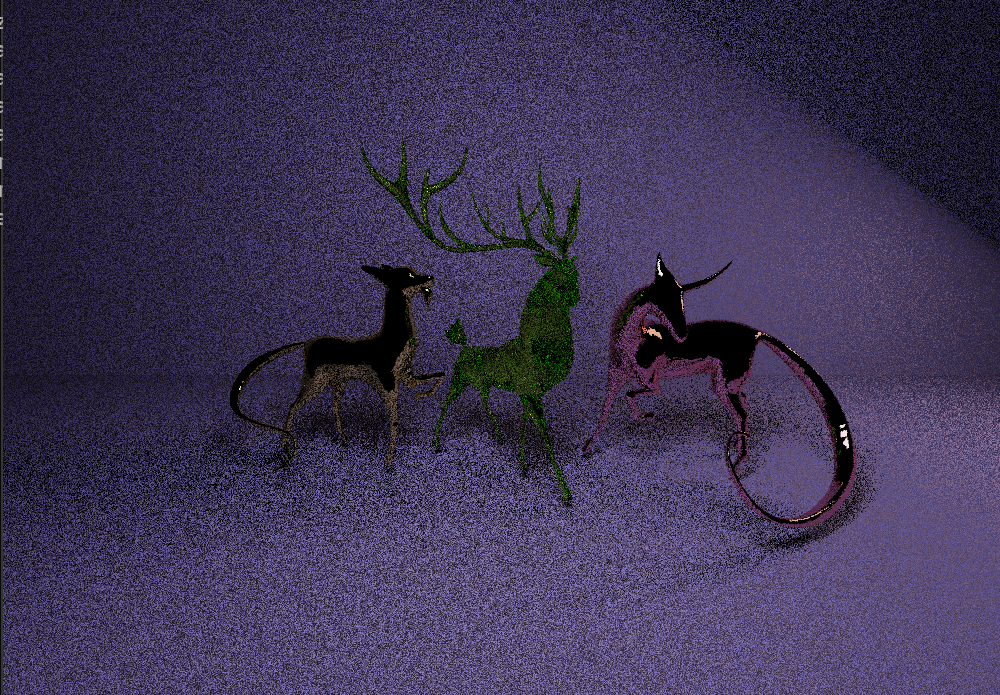
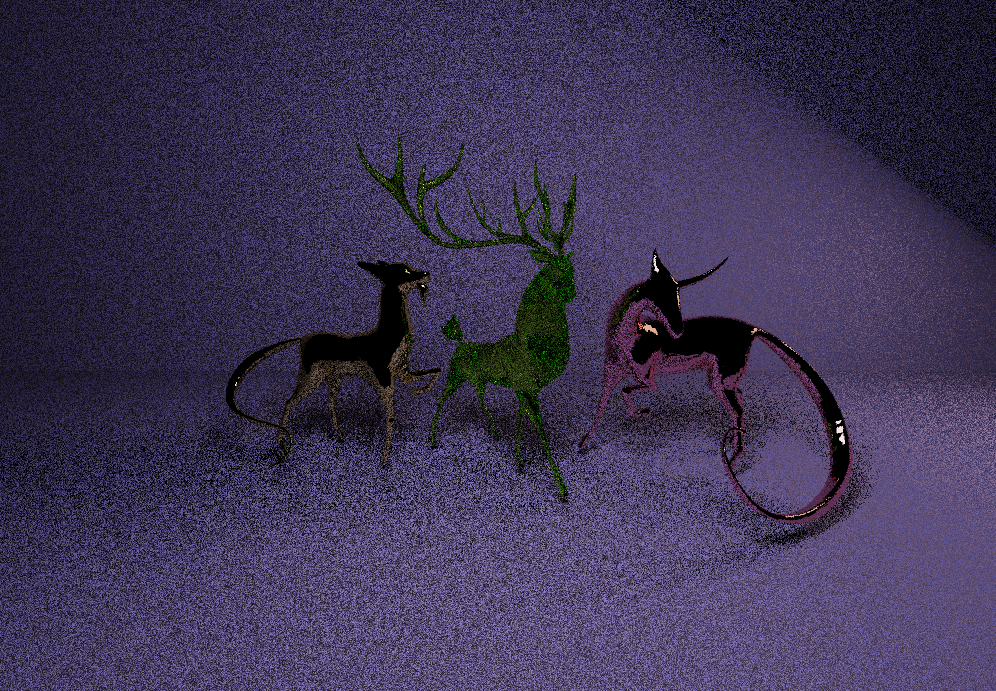
update to README

diff --git a/README.md b/README.md
@@ -6,13 +6,131 @@ Rebecca Feng
 Tested on: Windows 11, AMD Ryzen 9 @ 2.50 GHz 8GB, GTX 5060
 Visual Studio 2022, CUDA 13.3
 
-| Creatures render — 1000 iterations | Monkeys render — 173 iterations | Horses render — 1004 iterations |
+## Resulting renders
+| Creatures render — 1000 iterations | Monkeys render — 173 iterations | Unicorn render — 1004 iterations |
 | ------------- | ------------- | ------------- |
-|<img src="img/README_images/render5_1000it.png" height="300" alt="Cover render" /> | <img src="img/README_images/render3_173it.png" height="300" alt="Monkeys render" /> | <img src="img/README_images/render10_1004it.png" height="300" alt="Horses render" />|
+|<img src="img/README_images/render5_1000it.png" height="300" alt="Cover render" /> | <img src="img/README_images/render3_173it.png" height="300" alt="Monkeys render" /> | <img src="img/README_images/render10_1004it.png" height="300" alt="Unicorn render" />|
 
+| 2 Iterations | 100 Iterations | 750 Iterations | 1000 Iterations |
+| ------------- | ------------- | ------------- | ------------- |
+|<img src="img/README_images/render6_2it.png" height="200" alt="Cover render" /> | <img src="img/README_images/render7_102it.png" height="200" alt="Monkeys render" /> | <img src="img/README_images/render4_750it.png" height="200" alt="Unicorn render" />| <img src="img/README_images/render5_1000it.png" height="200" alt="Horses render" />|
 
+These scene files are included in scenes/blenderscenes folder
+## Summary
 
-**Acknowledgements:**
+This GPU accelerated pathtracer uses CUDA kernels to efficiently render scenes (specifically, one thread per ray). The following features are implemented in this pathtracer:
+- GPU acceleration (CUDA)
+    - Stream-compaction for ray termination
+    - Sorting buffered rays/paths by material type in memory
+- OBJ/custom JSON file loading
+- Direct lighting
+- Bounding Volume Hierarchies for triangle meshes
+- Stochastic sampling for antialiasing
+- Materials/BSDFs
+    - Diffuse
+    - Pure specular (reflective)
+    - Dielectric (refractive)
+
+## Contents
+**Topics discussed in the README:**
+1. [GPU Acceleration Details](#gpu-acceleration-details)
+    - [Stream-compacted Rays](#stream-compacted-rays)
+    - [Sorting by Material ID](#sorting-by-material-id)
+2.  [OBJ loading](#obj-loading)
+3. [Bounding Volume Hierarchies](#bounding-volume-hierarchies)
+4.  [Direct Lighting](#direct-lighting)
+5. [Dielectric Materials](#dielectric-materials)
+6. [Acknowledgements](#acknowledgements)
+
+## 1. GPU Acceleration Details
+The repo uses CUDA kernels and the [Thrust library ](https://developer.nvidia.com/thrust) for GPU acceleration.
+### 1.1. Stream-compacted Rays
+Used the Thrust library's stream compaction functionality, where we terminate rays if they are labeled to have 0 "remaining bounces" left (meaning, for example, either the ray at its current state doesn't intersect with anything in the scene, is behind the camera, has a throughput color of black, or total internal reflection for refractive materials).
+
+This method allows for faster renders, per iteration (see graph in Performance section below). For example, TODO: GIVE AN EXAMPLE CITED FROM THE GRAPH
+#### Performance
+Compared without using stream compaction whatsoever in our code, ...
+<!-- TODO: write an analysis of the performance without stream compaction. -->
+<!-- two categories - with and without stream compaction -->
+<!-- y axis - time to render 1000 iterations -->
+<!-- x axis - ray depth -->
+
+###  1.2. Sorting by Material ID
+We used Thrust to sort the rays and pathSegment data structures by materialID in order to improve performance in our renderer. TODO: why is it faster. We notice that performance begins to improve around X number of materials in our scene. 
+#### Performance
+<!-- x axis: number of diffuse materials in the scene (maybe like 5 points)-->
+<!-- y axis: time to render 1000 iterations -->
+
+## 2. OBJ loading
+
+<!-- maybe a before and after render of a non triangle scene with now a triangle scene?? -->
+This repo supports OBJ loading to render out triangle meshes. To support an arbitrary number of polys, we also combine our implementation with [bounding volume hierarchy acceleration structures](#bounding-volume-hierarchies) (in which we discuss the performance rendering out triangle meshes there). We utilized the [tinyobjloader](https://github.com/tinyobjloader/tinyobjloader) for file parsing.
+
+## 3. Bounding Volume Hierarchies
+
+<!-- Show an image of the render after a certain amount of time passes, with and without bvh -->
+Bounding volume hierarchies significantly sped up our implementation. Without BVH, for each ray, we would have to test intersection with all triangles in our scene. With BVH, we can check whether it intersects a section of our mesh at a time, so that intersecting triangles in our scene takes up O(logN) time instead of O(N) time, where N is the number of triangles in our scene.
+
+The BVH construction takes place on the CPU, while when testing intersections on the GPU, we use an iterative approach in order to determine whether a given ray intersects triangles in our scene or not.
+
+We also set a max tree depth of 16 and max number of leaves to 4, so for large scenes, we don't have to spend time going down our BVH tree, and also spend too much time iterating through triangles linearly at each leaf node. Furthermore, triangles that share the same leaf node are contiguous in memory, exploiting spatial locality. We also use std::nth_element during construction of our BVH, which performs in-place partitioning for our triangles rather than needing to copy data over.
+
+Compared to a pure CPU approach with a BVH, we would have to test each ray individually, taking O(MlogN) time (where M is the number of rays, N is number of triangles). On the GPU, since all the rays are multithreaded, this takes O(logN) time, which is much shorter and preferred.
+
+To further optimize a BVH compared to our current implementation, we could also include non-triangle primitives in our BVH data structure, and also test the closest bounding box in our scene first to see if any intersection occurs there rather than always testing the right child node first.
+
+Our graph below compares a GPU approach with no BVH vs BVH in our scene, with only a single diffuse material and area light. We see that TODO: name your observations here.
+<!-- Include a graph with no BVH vs BVH, x axis - number of triangles (diffuse), y-axis time to render 1000 iterations -->
+
+## 4. Direct Lighting
+
+<!-- Include an image of direct lighting vs without for 5 iterations -->
+
+Direct lighting makes our renders converge with fewer iterations than estimating without, since at each ray bounce, we sample how much direct light is also gathered there rather than waiting for our ray to eventually hit a light source at random. Furthermore, we are also able to render out scenes with point lights which would otherwise be impossible without direct lighting.
+
+Evaluating the scene with SNR, we see that our direct lighting implementation converges a lot faster than without:
+
+<!-- Compare SNR without direct lighting vs with direct lighting -->
+<!-- x axis - iteration count -->
+<!-- y-axis - SNR -->
+
+Since direct lighting requires us to compute a "shadow ray" to check whether or not it intersects with other objects in the scene before it hits a light, this adds an additional O(logN) computational expense (if we use BVH; if not, then O(N)). However, we find that it is TODO: FASTER OR SLOWER with direct lighting to achieve similar quality results (evaluated by SNR)  compared to that without, on our computer.
+
+<!-- Compare how long it takes for direct lighting scene to get to similar SNR levels compared to direct lighting -->
+<!-- x axis - time -->
+<!-- y-axis - SNR -->
+
+On the CPU, overall direct lighting computation/rendering a single pass with BVH would take O(MlogN) (M - number of rays in scene). On the GPU, this takes O(logN) due to multithreading with rays.
+
+In order to optimize it beyond our current implementation, we can choose to have a ray prioritize closer lights/lights that would bring a higher contribution to a path's final radiance compared to just randomly choosing a light to sample. More modern methods like ReSTIR also help to reuse samples in neihgboring pixels as well.
+
+## 5. Dielectric Materials
+Dielectric materials are supported in this renderer, with a physically-accurate Fresnel reflectance calculation that utilizes Russian Roulette to determine whether or not to render our a reflective or transmissive material per pixel. 
+<!-- TODO: show the render with pure transmission -->
+| Dielectric material (IOR 2) | Purely specular | Purely transmissive |
+| ------------- | ------------- | ------------- |
+|<img src="img/README_images/render11_120it.png" height="300" alt="Cover render" /> | <img src="img/README_images/render12_132it.png" height="300" alt="Monkeys render" /> | <img src="img/README_images/render12_132it.png" height="300" alt="Monkeys render" /> |
+
+Below, we show a dielectric material for 3 different indices of refraction, as well as what the Fresnel reflectance factor looks like for each IOR.
+<!-- TODO: show the same render with varying levels of IOR -->
+|  Water (IOR 1.3) |  Glass (IOR 1.5) | Diamond  (IOR 2.4) |
+| ------------- | ------------- | ------------- |
+|<img src="img/README_images/render11_120it.png" height="300" alt="Cover render" /> | <img src="img/README_images/render12_132it.png" height="300" alt="Monkeys render" /> | <img src="img/README_images/render12_132it.png" height="300" alt="Monkeys render" /> |
+|<img src="img/README_images/render11_120it.png" height="300" alt="Cover render" /> | <img src="img/README_images/render12_132it.png" height="300" alt="Monkeys render" /> | <img src="img/README_images/render12_132it.png" height="300" alt="Monkeys render" /> |
+
+For the dragon cornell box scene, comparing a dielectric material with IOR 1.3 to a pure reflective, pure transmissive, and pure diffuse material, it took TODO: X seconds to render out 1000 iterations compared to Y, Z, and W seconds respectively, with a ray depth of 64. TODO: verify: This performance impact is due to the amount of rays that end up getting terminated.
+
+Implementing dielectric materials on the GPU compared to the CPU yields a much faster result not just due to multithreading ray processes, but stream compaction allows us to terminate rays that end up having internal reflections or are reflected away.
+
+In order to optimize our render beyond what we currently have, we could use a faster Fresnel factor calculation like Schlick's (although this suffers from being less physically accurate). We could also use caustic-aware techniques that sample rays that would contribute to higher radiance than not.
+
+## Acknowledgements
 - Horse, deer, and sheep sculptures taken from https://sketchfab.com/Miaolailai
 - Used [tinyobjloader](https://github.com/tinyobjloader/tinyobjloader) for file parsing
 - Project from [UPenn CIS5650: GPU Programming ](https://github.com/CIS5650-Fall-2026/Project3-CUDA-Path-Tracer)
+- [Physically Based Rendering: From Theory to Implementation (pbr-book.org)](https://pbr-book.org/4ed/contents)
+
+## More renders yay
+<img src="img/README_images/render2_122it.png" height="300" alt=" render extra" /> 
+<img src="img/README_images/render8_469it.png" height="300" alt=" render extra" /> 
+<img src="img/README_images/render9_652it.png" height="300" alt=" render extra" /> 

diff --git a/.ipynb_checkpoints/README-checkpoint.md b/.ipynb_checkpoints/README-checkpoint.md
@@ -1,0 +1,18 @@
+CUDA Path Tracer
+================
+Rebecca Feng
+
+[LinkedIn](https://www.linkedin.com/in/beckyfeng0803/), [personal website](https://beckyfeng08.github.io/)
+Tested on: Windows 11, AMD Ryzen 9 @ 2.50 GHz 8GB, GTX 5060
+Visual Studio 2022, CUDA 13.3
+
+| Creatures render — 1000 iterations | Monkeys render — 173 iterations | Horses render — 1004 iterations |
+| ------------- | ------------- | ------------- |
+|<img src="img/README_images/render5_1000it.png" height="300" alt="Cover render" /> | <img src="img/README_images/render3_173it.png" height="300" alt="Monkeys render" /> | <img src="img/README_images/render10_1004it.png" height="300" alt="Horses render" />|
+
+
+
+**Acknowledgements:**
+- Horse, deer, and sheep sculptures taken from https://sketchfab.com/Miaolailai
+- Used [tinyobjloader](https://github.com/tinyobjloader/tinyobjloader) for file parsing
+- Project from [UPenn CIS5650: GPU Programming ](https://github.com/CIS5650-Fall-2026/Project3-CUDA-Path-Tracer)
